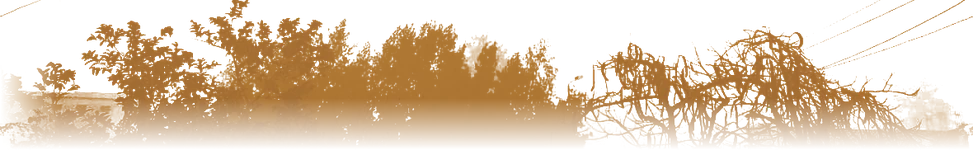
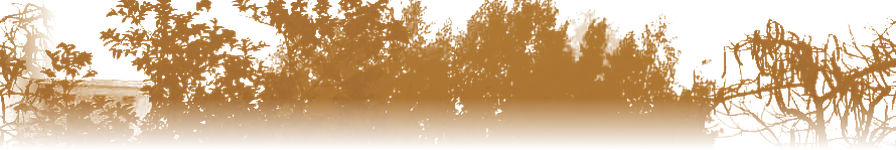
Cut the bands above the source frame's own wires
The wires looked broken, and the drawn power line was not the cause -- it is
continuous by construction. duststorm.jpg carries two long horizontal wires at
about 0.66 of frame height and a diagonal fan from a pole at the right edge,
and the band crops started at 0.66 and ran the full width, so both bands
contained photographed wire. That wire is diagonal, so it broke at every tile
boundary, and the breaks read as the drawn wires failing.

Both crops now start below the horizontals and stop left of the fan: the mid
band at 0.715-0.89 of height and 0.02-0.76 of width, the far band at
0.735-0.89. The only wires in the scene are the drawn ones now, and the shorter
crop renders the treeline larger at the same band height, which gives it more
presence.

Found by marking candidate crop lines on the source frame and looking, after an
automatic scan for wire rows could not tell a wire from foliage -- both are
simply dark against a bright sky.

Verified on the pinned SDK: analyze clean, 16 tests passing, web release builds
and renders with no photographed wire left in either band.

Claude-Session: https://claude.ai/code/session_01X8VUD7uz2Gen37Etsisxr1

diff --git a/README.md b/README.md
@@ -249,6 +249,14 @@ copied in as `src_01`–`src_05` and overwrote the numbered files, including the
 frame these layers were cut from; it was recovered from git history and given a
 name no numbered batch will claim.
 
+**The bands are cut above the source's own wires.** `duststorm.jpg` has two
+long horizontal wires at about 0.66 of frame height and a diagonal fan from a
+pole at the right edge. The first crop started at 0.66 and took the lower edge
+of both, so the bands carried photographed wire that broke at every tile
+boundary — which read as the drawn wires being cut, when they never were. The
+crops now start at 0.715 and stop at 0.76 of the width, above the horizontals
+and left of the fan.
+
 **Wires are drawn, not photographed.** They were a band cut from the same frame,
 but the wires run diagonally across it, so every tile boundary chopped them
 mid-span and the repeat read as broken cable — no seam blend fixes a wire that
